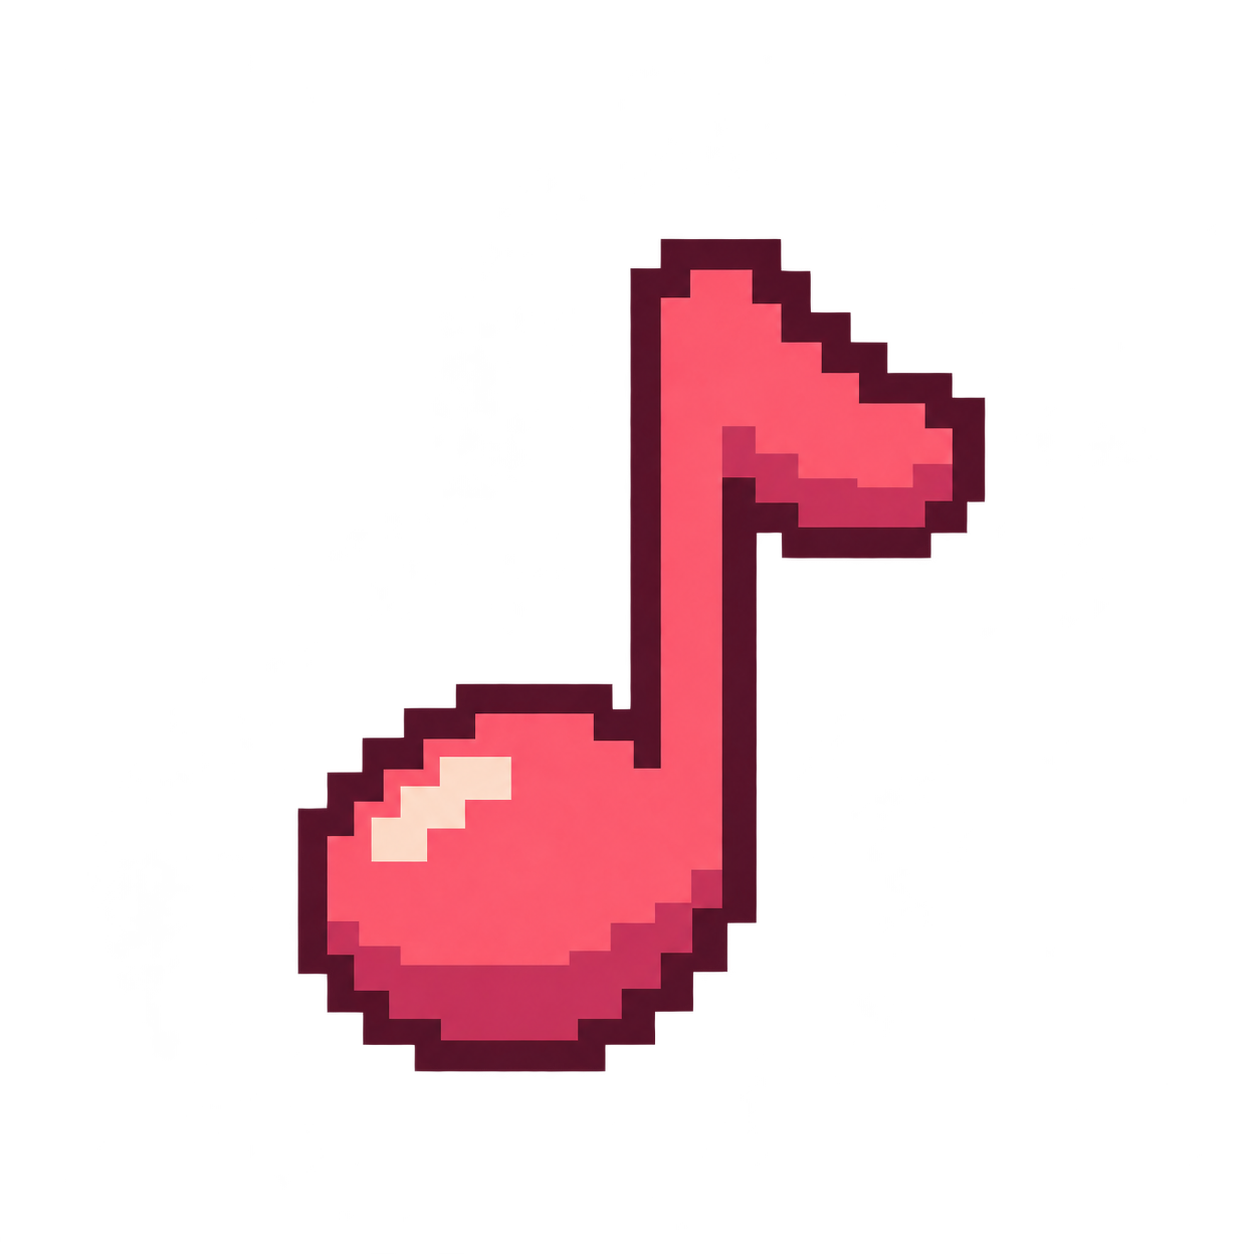
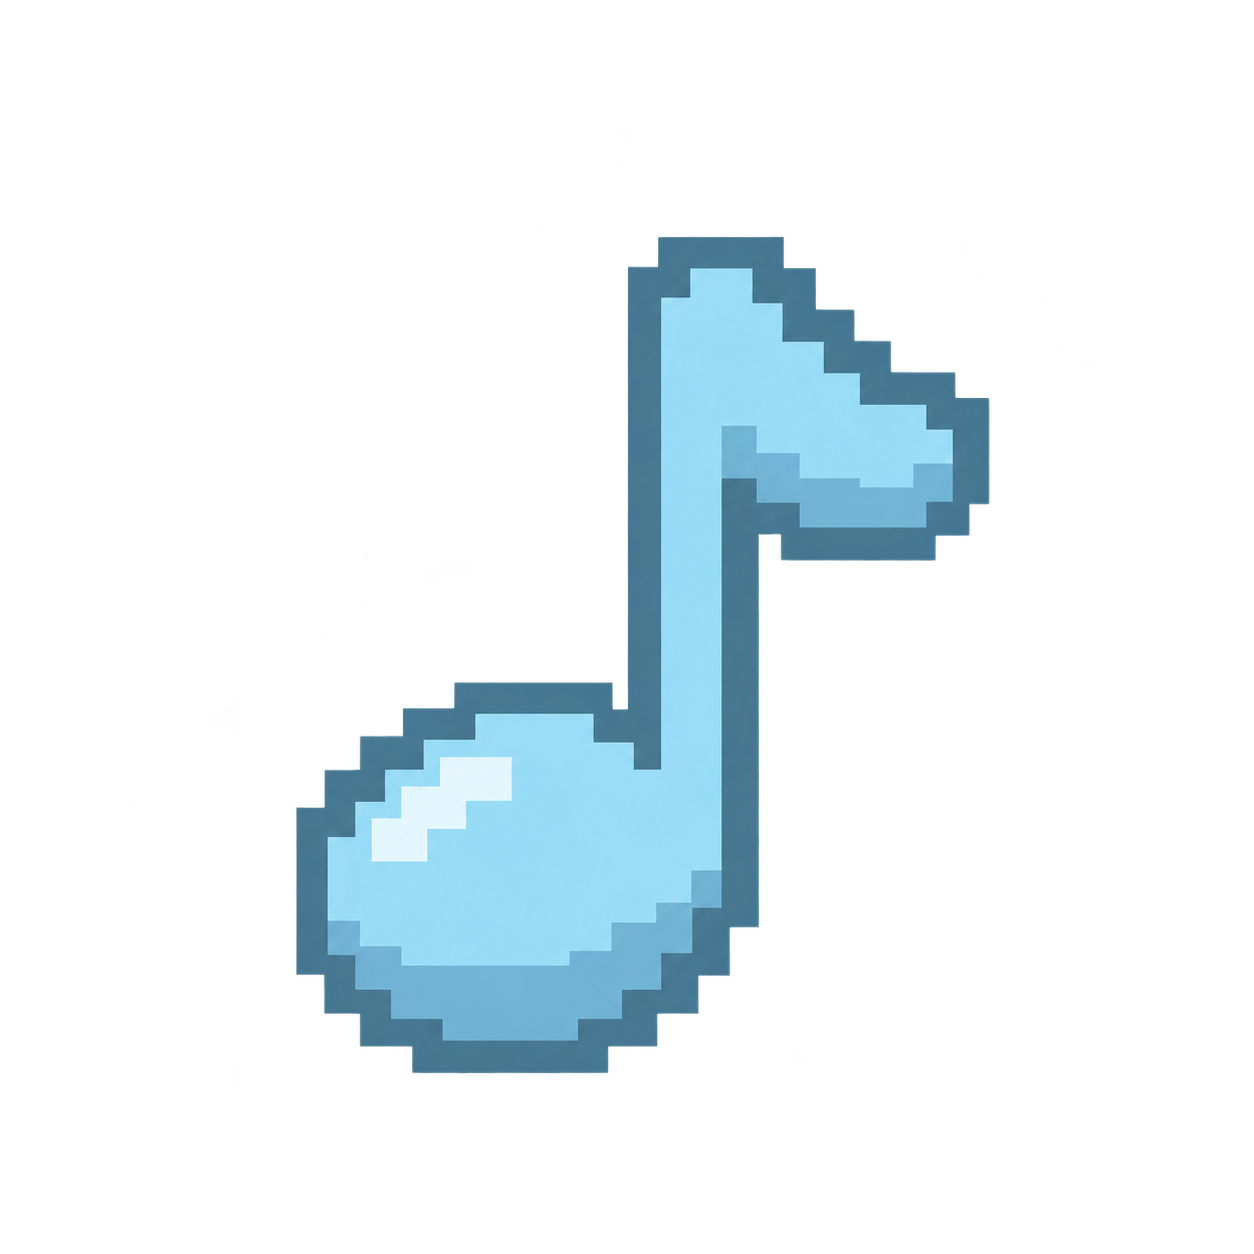
アイテム画像を調整

Changed region(s): [[0.2177, 0.1866, 0.8086, 0.8708]]

diff --git a/tools/mapedit/main.swift b/tools/mapedit/main.swift
@@ -221,7 +221,7 @@ final class MapEdit: NSObject, NSApplicationDelegate, NSWindowDelegate, NSTextFi
 
     private func placementName(for kind: String) -> String {
         let labels = [MapDocument.breakableKind: "破壊可能ブロック", "TerrainTiles": "地形", "OneWayPlatforms": "一方通行床", "GumPassBarriers": "バリア",
-                      "GumAnchors": "ガムアンカー", "Spikes": "即死トゲ", "GumBoxes": "可動ブロック", "Foods": "食べ物", "Baguettes": "フランスパン", "MusicNotes": "音符", MapDocument.checkpointKind: "チェックポイント"]
+                      "GumAnchors": "ガムアンカー", "Spikes": "即死トゲ", "GumBoxes": "可動ブロック", "Foods": "食べ物", "Baguettes": "スター", "MusicNotes": "音符", MapDocument.checkpointKind: "チェックポイント"]
         let name = String(kind.split(separator: "/").last ?? "")
         return canvas.placementStyle(for: kind)?.name ?? labels[kind]
             ?? (name == "PlayerSpawn" ? "スタート" : name == "Exit" ? "ゴール" : name)

diff --git a/specs/music-note-item-assets.md b/specs/music-note-item-assets.md
@@ -2,7 +2,7 @@
 
 - 配置用画像: `images/items/music_note.png`。32×32px、RGBA透過PNG、単一静止スプライト。Nearestフィルターを使う。
 - 生成原画: `images/items/music_note_source.png`。1254×1254px。built-in imagegenで生成し、アルファを保って最近傍補間で32pxへ縮小。
-- コーラルピンクの八分音符、バーガンディの輪郭、クリーム色のハイライト。日常的な小得点アイテムの候補。プレイヤー接触で回収できる。取得時に10点を加算する。
+- 淡い水色の八分音符、落ち着いた青の輪郭、白に近い水色のハイライト。日常的な小得点アイテムの候補。プレイヤー接触で回収できる。取得時に10点を加算する。
 - 検証: 原画/32px版の透過と寸法、32px版を8倍Nearest表示してシルエットを確認。
 
 ## 最終生成プロンプト（built-in imagegen）
@@ -13,7 +13,7 @@
 
 - 再利用用シーン: `res://scenes/items/music_note.tscn`。Area2Dに32px等倍のSprite2Dを持ち、通常の子シーンとして配置する。画像は `assets/items/music_note.png`。取得時に10点を加算する。ステージでは下記の専用TileSetを使う。
 - `scripts/music_note.gd` がハイライト3秒周期と縦軸回転4秒周期を管理。ハイライトは通常2.4秒、続く0.6秒でsin²の滑らかな山を作り、中央2.7秒で最大になる。シーンツリーのポーズに従う。
-- `shaders/music_note.gdshader` が既存クリーム色の画素だけを最大45%淡いクリームへ混ぜる。外周発光や粒子はない。
+- `shaders/music_note.gdshader` が既存クリーム色の画素だけを最大45%淡い水色へ混ぜる。外周発光や粒子はない。
 - 縦軸回転は正面→右32度→正面→左32度→正面を4秒で往復する。横向きになるまで一周させず、圧縮補正で正面幅を94%以上保つ。最大約2pxの暗い側面と弱い遠近/陰影をシェーダーで描き、奥行きを表現する。元PNGとSprite/Area2Dのscaleは変更しない。Nearestの画素単位サンプリング、透明余白内で完結。
 - 回収判定の位置・半径18px・ルートの変形は固定。見た目の回転は物理に影響しない。
 - 各インスタンスは独立したマテリアルを持つ。初期ワールド位置から周期の位相を決め、列状配置の一斉点滅と回転同期を避ける。
@@ -32,4 +32,8 @@
 
 `Godot --headless --path natsuki2027 --log-file /tmp/music-note-pickup.log --script res://tools/verify_music_note_pickup.gd` で全3ステージの実シーンタイルへの物理接触、箱/非playerグループの除外、ガムレイ対象外、ポーズ中の回収停止、再読込復元、同一フレームでの重複要求による二重通知防止、10点の一度だけの加算、文字の上昇・消滅、タイムアタックのスコアとタイマーの併記を確認する。
 
-数字演出は `scripts/score_popup.gd` をフランスパン・食べ物と共用し、数字はクリーム色・縁取りは白（4px）とする。専用 `resources/score_popup_theme.tres` のDefault Font／Default Font SizeとLabelのColors（Font Color／Font Outline Color）、Constants（Outline Size）で調整する。スクリプト側のスタイル上書きはなく、他のUIテーマとは独立する。得点と表示は `ContactPickup.points`（音符10・フランスパン30）および `FoodCollectible.POINTS`（300）を参照する。ラベルをアイテムの外側に所有させ、回収による削除後も演出を継続する。
+数字演出は `scripts/score_popup.gd` をスター・食べ物と共用し、数字はクリーム色・縁取りは白（4px）とする。専用 `resources/score_popup_theme.tres` のDefault Font／Default Font SizeとLabelのColors（Font Color／Font Outline Color）、Constants（Outline Size）で調整する。スクリプト側のスタイル上書きはなく、他のUIテーマとは独立する。得点と表示は `ContactPickup.points`（音符10・スター30）および `FoodCollectible.POINTS`（300）を参照する。ラベルをアイテムの外側に所有させ、回収による削除後も演出を継続する。
+
+淡い水色の配色は組み込みimagegenで元の八分音符を色編集し、32pxへnearest縮小してゲーム用へ同一コピーする。最終色編集プロンプトは `specs/music-note-pale-blue-prompt.txt`。形・サイズ・配置・取得仕様は維持する。
+
+32px版はalpha128閾値で微小な透明残留を除去し、不可視RGBを黒へ整理する。

diff --git a/AGENTS.md b/AGENTS.md
@@ -316,8 +316,8 @@
 
 - music_note.gd resolves SoundEffects via `/root/SoundEffects` at pickup: early TileSet scene preloads in headless fixtures can compile before autoload identifiers register. verify_music_note_pickup.gd covers physical contacts across3stages, filtering, gum exclusion, pause/reload and duplicate requests.
 
-- Small score-item baguette artwork is `images/foods/baguette.png`, a standalone 32 × 32 transparent RGBA sprite. Use nearest-neighbor filtering.
-- Baguettes are 100-point contact pickups under each saved stage's `Baguettes` node (3 per stage); keep placements aligned with `scripts/baguette_layout.gd`. Game owns the stage score/HUD and scene reload resets score and pickups. Music notes and baguettes share `contact_pickup.gd`; only baguettes award points. Keep the source and runtime baguette PNG copies identical.
+- Small score-item artwork is a yellow five-point star at `images/items/star.png`, a standalone32×32 transparent RGBA sprite; runtime is assets/items/star.png. Use nearest-neighbor filtering.
+- Stars are30-point contact pickups under each saved stage's `Baguettes` node (3 per stage); keep placements aligned with `scripts/baguette_layout.gd`. Game owns the stage score/HUD and scene reload resets score and pickups. Music notes and baguettes share `contact_pickup.gd`; only baguettes award points. Keep the source and runtime star PNG copies identical.
 
 - Time Attack uses one dedicated 192×24 stage, `scenes/stages/time_attack.tscn`. `tools/build_time_attack_stage.gd` overwrites the saved map with its initial layout. After manual edits, sync Terrain rectangles to the saved TerrainTiles occupancy without rerunning the builder. Game counts active physics time immediately after the entrance animation, freezes it on goal contact, and saves one local best in `user://time_attack_sprint.cfg`. See `specs/time-attack-courses.md`.
 
@@ -395,7 +395,7 @@
 
 - Free falling speed uses Player Movement/max_fall_speed (default600px/s); player.gd caps downward velocity after jump resolution, before contact solving. Any connected gum (taut/slack) bypasses; detach resumes immediately. Horizontal/upward momentum stays unchanged. verify_player.gd covers default/custom cap and detach; coyote compensation fixture raises cap to isolate compensation.
 
-- Notes/baguettes share ContactPickup score_item cue (sounds/item3.wav and identical runtime copy); food retains item.wav via item cue.
+- Notes/stars share ContactPickup score_item cue (sounds/item3.wav and identical runtime copy); food retains item.wav via item cue.
 
 - MapEdit one-way floor category uses OneWayPlatforms on both supported stages; preserve the empty collision-enabled layer in Time Attack and its generator. Source1 atlas x0/1/2/3 means left/middle/right/single. Old imported sessions need a fresh Godot copy to expose newly added layers.
 
@@ -446,3 +446,7 @@
 - Gum arm authority: right-facing art uses LEFT/far hand for gum, RIGHT/near hand on hat; prioritize this over earlier per-asset opposite-hand descriptions. Player is one full-body AnimatedSprite2D, no separate arm/hand renderer. GUM_HANDS samples gum-line origin only;360px/s origin smoothing can briefly lag drawn palm at pose switches. fire/pull/hair/hang/angles all use this arrangement; full-body sheets and hand samples are updated. Idle relaxed, ladder uses both hands.
 
 - Run frames2/6 (1-based) keep far/left arm bent in front like4/8, not dangling behind near hat-holding elbow. Other6 cells preserved; feet y232. Latest edit prompt specs/natsuki-run-arm-2-6-prompt.txt.
+
+- Music-note palette is pale sky-blue with muted blue outline and near-white ice-blue highlight; source images/items/music_note_source.png,32px images/items/music_note.png/runtime assets/items copy identical. Shader shine uses cool highlight vec3(0.86,0.95,1.0).
+
+- The30-point contact pickup uses yellow star art, not food: images/items/star_source.png→star.png and identical runtime assets/items/star.png. Placement/resource identifiers Baguettes/baguette.tscn/baguette_layout.gd remain current; MapEdit label is スター. Radius16,score30,item3.wav and persistence unchanged.

diff --git a/WORKLOG.md b/WORKLOG.md
@@ -1,3 +1,27 @@
+## 音符を淡い水色へ調整
+
+- Goal/status: 鮮やかな青から淡い水色へ変更。完了。
+- Completed/decisions: 組み込みimagegenで本体を淡い水色・輪郭を落ち着いた青・ハイライトを氷色へ。形状／32px／nearest／取得仕様維持。sourceと32px画像・runtime同一コピー更新。既存冷色shine維持。
+- Files: images/items/music_note{,_source}.png、natsuki2027/assets/items/music_note.png、specs/music-note-pale-blue-prompt.txt、specs/music-note-item-assets.md、AGENTS.md、WORKLOG.md。
+- Verification/refactoring: 原画／32px拡大を目視、現行配色説明を統一。alpha1の青残留を確認し、32px版をalpha128で整形／不可視RGB黒へ整理。32×32RGBA／alpha0–255／runtime byte一致PASS。Godot最終import終了0、verify_music_note PASS。既存sandbox証明書・Mono・editor settings警告あり。git diff --check PASS。
+- Blockers: なし。Next action: ゲームで淡い水色の見やすさを確認。
+
+## フランスパン取得アイテムを黄色スターへ
+
+- Goal/status: 30点アイテムを黄色の★へ変更。完了。
+- Completed/decisions: 組み込みimagegenで五芒星生成、32pxnearest、runtime同一コピー。既存baguette sceneがstar.png参照。旧未使用パンPNG削除。配置識別子Baguettes等は現行プロトコルとして維持、MapEdit表示名のみスター。点数30／半径16／取得音と状態保持は維持。
+- Files: images/items/star{,_source}.png、runtime assets/items/star.png、旧baguettePNG削除、scenes/items/baguette.tscn、tools/mapedit/main.swift、関連仕様／MapEdit README、AGENTS.md、WORKLOG.md、specs/star-item-image-prompt.txt。
+- Verification/refactoring: 生成／32px拡大を目視、32×32RGBA／alpha0–255／source-runtime byte一致PASS。Godot import終了0、verify_stage_select（取得点数／状態保持等）とverify_music_note_pickup PASS。script/parse errorなし、既存sandbox証明書・Mono・editor settings・終了resource警告あり。旧パン画像参照残留なし、MapEditは表示文字列のみ変更を静的確認。現行アートの参照・説明を整理、git diff --check PASS。
+- Blockers: なし。Next action: ゲームで黄色スターを取得し見た目確認。MapEditは再起動で表示名更新。
+
+## 音符アイテムを青系へ
+
+- Goal/status: 音符PNGを青系へ変更。完了。
+- Completed/decisions: 組み込みimagegenで形を保ち青本体／濃紺輪郭／氷色ハイライトへ色編集。原画保存、32pxnearest縮小、runtime同一コピー。shader shine色も淡い水色へ揃える。物理／回収・スコア変更なし。
+- Files: images/items/music_note_source.png、images/items/music_note.png、natsuki2027/assets/items/music_note.png、shaders/music_note.gdshader、specs/music-note-blue-prompt.txt、specs/music-note-item-assets.md、AGENTS.md、WORKLOG.md。
+- Verification/refactoring: 原画／32px拡大を目視、32×32RGBA／alpha0–254／runtime byte一致PASS。生成alpha維持。色仕様とshaderハイライト統一。Godot import終了0、verify_music_note PASS／終了0（位相・発光・回転・sensor固定・pause等）。script/parse errorなし、既存sandbox証明書・Mono・editor settings警告あり。git diff --check PASS。
+- Blockers: なし。Next action: ゲームで青い音符の見やすさを確認。
+
 ## 走り2・6コマ目の奥腕修正
 
 - Goal/status: 左奥腕を4・8コマ目に近い前方曲げ位置へ修正。完了。

diff --git a/specs/baguette-score-item.md b/specs/baguette-score-item.md
@@ -1,7 +1,9 @@
-# フランスパンの得点アイテム
+# スターの得点アイテム
 
-フランスパンは重音テトが触れると消え、item3.wavの拾得音とともに30点を加算し、取得位置に「30」が0.65秒で32px上昇しながら消える数字演出を表示する。音符と共通のscore_popup.gdを使う。得点はHUDの左上に表示する。新規開始・手動リトライでは得点と配置を初期化し、死亡によるチェックポイント復帰では保持する。
+スターは菜月さんが触れると消え、item3.wavの拾得音とともに30点を加算し、取得位置に「30」が0.65秒で32px上昇しながら消える数字演出を表示する。音符と共通のscore_popup.gdを使う。得点はHUDの左上に表示する。新規開始・手動リトライでは得点と配置を初期化し、死亡によるチェックポイント復帰では保持する。
 
-全3ステージに各3個を配置する。編集対象は各ステージの `Baguettes` TileMapLayer。シーンタイルをセル下辺中央に配置する。Time Attack のレイヤーは初期状態では空で、タイマー表示は拾得時も継続する。ステージ生成時の配置は `scripts/baguette_layout.gd` に記述する。音符は別のレイヤーで管理し、拾うと従来どおり拾得音が鳴る。得点はフランスパン30点・食べ物300点・音符10点を共通HUDへ加算する。タイムアタックでもスコアを表示し、その下にタイマーを併記する。
+全3ステージに各3個を配置する。編集対象は各ステージの `Baguettes` TileMapLayer。シーンタイルをセル下辺中央に配置する。Time Attack のレイヤーは初期状態では空で、タイマー表示は拾得時も継続する。ステージ生成時の配置は `scripts/baguette_layout.gd` に記述する。音符は別のレイヤーで管理し、拾うと従来どおり拾得音が鳴る。得点はスター30点・食べ物300点・音符10点を共通HUDへ加算する。タイムアタックでもスコアを表示し、その下にタイマーを併記する。
 
-スプライトは32×32 pxの透過PNG。原本は `images/foods/baguette.png`、Godot用のコピーは `natsuki2027/assets/items/baguette.png`。最近傍フィルタで表示する。フランスパンと音符はプレイヤー接触による拾得処理を共有する。
+スプライトは32×32 pxの透過PNG。原本は `images/items/star.png`、Godot用のコピーは `natsuki2027/assets/items/star.png`。最近傍フィルタで表示する。スターと音符はプレイヤー接触による拾得処理を共有する。
+
+星は黄色い五芒星、金色の影と濃い金茶の輪郭、淡黄色ハイライト。生成元は `images/items/star_source.png`。組み込み画像生成後32pxへnearest縮小、runtimeへ同一コピー。配置の識別子は `Baguettes`、シーンは `scenes/items/baguette.tscn`、TileSetとlayoutは同名リソースで管理する。得点30・接触取得・item3.wav・死亡時状態保持は共通取得処理のまま。MapEditの表示名は「スター」。生成プロンプトは `specs/star-item-image-prompt.txt`。

diff --git a/specs/mapedit.md b/specs/mapedit.md
@@ -2,7 +2,7 @@
 
 macOS 用のステージ配置エディタを `tools/mapedit/` に置く。Godot の編集中のステージを取り込み、プレイに関わる配置を一枚のキャンバスで編集して同じステージへ戻す。保存済みステージの正本は Godot シーンとする。
 
-食べ物は両ステージの Foods レイヤーに配置できる。「料理の種類」ではシーンタイルの料理名を表示し、配置・交換では既存の Godot タイル ID を使う。フランスパンと音符は Baguettes と MusicNotes に対応する独立した配置種別。Time Attack では両レイヤーを空で用意する。
+食べ物は両ステージの Foods レイヤーに配置できる。「料理の種類」ではシーンタイルの料理名を表示し、配置・交換では既存の Godot タイル ID を使う。スターと音符は Baguettes と MusicNotes に対応する独立した配置種別。Time Attack では両レイヤーを空で用意する。
 
 「可動ブロック」は GumBoxes のシーンタイルとして配置する。セル中央で既存の gum_box.tscn を生成し、ゲームでは RigidBody2D としてバンジーガムの力を受ける。レストランと Time Attack のレイヤーは初期状態では空とする。
 

diff --git a/tools/mapedit/README.md b/tools/mapedit/README.md
@@ -38,7 +38,7 @@ MapEdit の起動元のターミナルと、Godot エディター下部の「出
 
 右ペインで **食べ物** を選び、**料理の種類** から料理名を選択します。左クリック・ドラッグで配置し、右クリック・ドラッグで消去します。レストランと Time Attack の両方で使えます。食べ物の欄がない既存セッションでは、Godot からステージをコピーし直してください。
 
-**フランスパン** と **音符** も右ペインに別々の配置種別として表示されます。選択した種別だけを配置・消去します。既存の作業セッションに項目がない場合は、Godot から対象ステージをコピーし直します。
+**スター** と **音符** も右ペインに別々の配置種別として表示されます。選択した種別だけを配置・消去します。既存の作業セッションに項目がない場合は、Godot から対象ステージをコピーし直します。
 
 ## 可動ブロック
 
